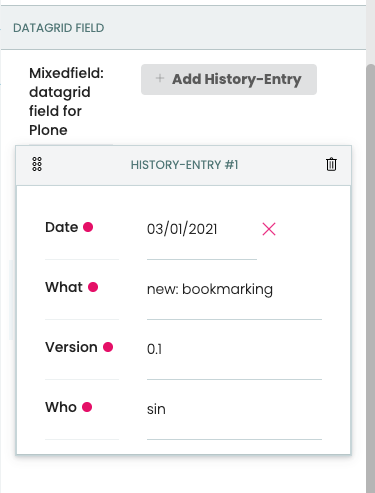
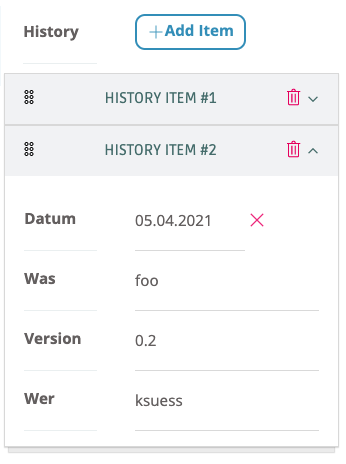
Switch to @sneridagh Volto ObjectListWidget

diff --git a/mastering-plone/dexterity_reference.rst b/mastering-plone/dexterity_reference.rst
@@ -605,27 +605,22 @@ The output looks like this:
 mixedfield
 ==========
 
-**The mixedfield allows your user to create a list of arrays of mixed value types.**
-
-| *Another field, oh no!*
-| **mixedfield** is a combination of JSONField and a widget for Plone. Nothing new, just a term to talk about linking backend and frontend.
+The mixedfield empowers your user to create a list of arrays of mixed value types.
+If you are familliar with the Plone Classic datagridfield this is the complementary field / widget combo for Plone.
+**mixedfield** is a combination of a Plone Classic JSONField and a widget for Plone. Nothing new, just a term to talk about linking backend and frontend.
 
 Example is a custom history field:
 
 .. figure:: _static/dexterity/mixedfield_view.png
    :alt: view mixedfield values
 
-.. note::
-
-    This solution is for Plone 6 only, without a complementary widget for Plone Classic. The field data is of type JSON. 
-    For Plone Classic solutions see :ref:`dexterity_reference_datagridfield-label`
 
 Backend
 -------
 
 Enable blocks behavior for example content type.
 
-Add a field *mixed_field* to your content type schema.
+Add a field *history_field* to your content type schema.
 
 ..  code-block:: python
     :linenos:    
@@ -664,11 +659,11 @@ Add a field *mixed_field* to your content type schema.
             required=False,
             )
 
-        mixed_field = JSONField(
-            # datagrid, mixedfield, field, Plone, json, frontend, Volto
+        history_field = JSONField(
             title=u'Mixedfield: datagrid field for Plone',
             required=False,
             schema=MIXEDFIELD_SCHEMA,
+            widget="history_widget",
             default={"items": []},
             missing_value={"items": []},
             )
@@ -682,16 +677,13 @@ Provide a widget in your favorite add-on with the schema for the array of elemen
 
 ..  code-block:: jsx
     :linenos:
+    :emphasize-lines: 3,37,39
 
-    /**
-    * @module HistoryWidget
-    */
-    
     import React from 'react';
 
-    import { ObjectListInlineWidget } from '@eeacms/volto-object-widget';
+    import ObjectListWidget from '@plone/volto/components/manage/Widgets/ObjectListWidget';
 
-    const LineSchema = {
+    const ItemSchema = {
         title: 'History-Entry',
         properties: {
             historydate: {
@@ -720,12 +712,13 @@ Provide a widget in your favorite add-on with the schema for the array of elemen
                 ],
             },
         ],
+        required: [],
     };
 
     const HistoryWidget = (props) => {
         return (
-            <ObjectListInlineWidget
-                schema={LineSchema}
+            <ObjectListWidget
+                schema={ItemSchema}
                 {...props}
                 value={props.value?.items || props.default?.items || []}
                 onChange={(id, value) => props.onChange(id, { items: value })}
@@ -735,11 +728,14 @@ Provide a widget in your favorite add-on with the schema for the array of elemen
 
     export default HistoryWidget;
 
-Register this widget for the backend field of your choice in your **apps** configuration.
+Keeping this example as simple as possible we skipped the localization. Please see Volto documentation for details.
+
+Register this widget for the backend field of your choice in your **apps** configuration :file:`config.js`.
+The following config code registers the custom Plone *HistoryWidget* for Plone Classic fields with widget "history_widget".
 
 ..  code-block:: js
     :linenos:
-    :emphasize-lines: 20-22
+    :emphasize-lines: 17
 
     /**
     * Add your config changes here.
@@ -757,36 +753,23 @@ Register this widget for the backend field of your choice in your **apps** confi
         supportedLanguages: ['en', 'de', 'it'],
         defaultLanguage: 'en',
     };
-    config.widgets = {
-        ...config.widgets,
-        id: {
-        // widget for field mixed_field of example.contenttype
-        ...config.widgets.id,
-        mixed_field: HistoryWidget,
-        },
-    };
+    config.widgets.widget.history_widget = HistoryWidget;
 
     return config;
     }
 
 
-Your app or your add-on needs to list the dependency "@eeacms/volto-object-widget". 
+The user can now edit the values of the new field *history_field*.
 
-..  code-block:: js
+Thats what you did to accomplish this:
 
-  "addons": [
-    "@eeacms/volto-object-widget"
-  ],
-  "dependencies": {
-    "@eeacms/volto-object-widget": "^2.0.0"
-  },
-
-With that in place the user can edit the values of the mixed_field.
+- You added a new field of type JSONField with widget "history_widget" and default schema to your content type schema.
+- You registered the custom Plone widget for widget name "history_widget".
 
 .. figure:: _static/dexterity/mixedfield_edit.png
    :alt: edit mixedfield values
 
-To display the values of the mixed_field, a view (:file:`ExampleView`) of the content type integrates a component for displaying the mixedfield values.
+A view (:file:`ExampleView`) of the content type integrates a component to display the values of the field *history_field*.
 
 .. code-block:: js
    :linenos:
@@ -831,7 +814,7 @@ To display the values of the mixed_field, a view (:file:`ExampleView`) of the co
         <Container>
         <h2>I am an ExampleView</h2>
         <h3>History</h3>
-        <MyHistory history={content.mixed_field} />
+        <MyHistory history={content.history_field} />
         </Container>
     );
     };
